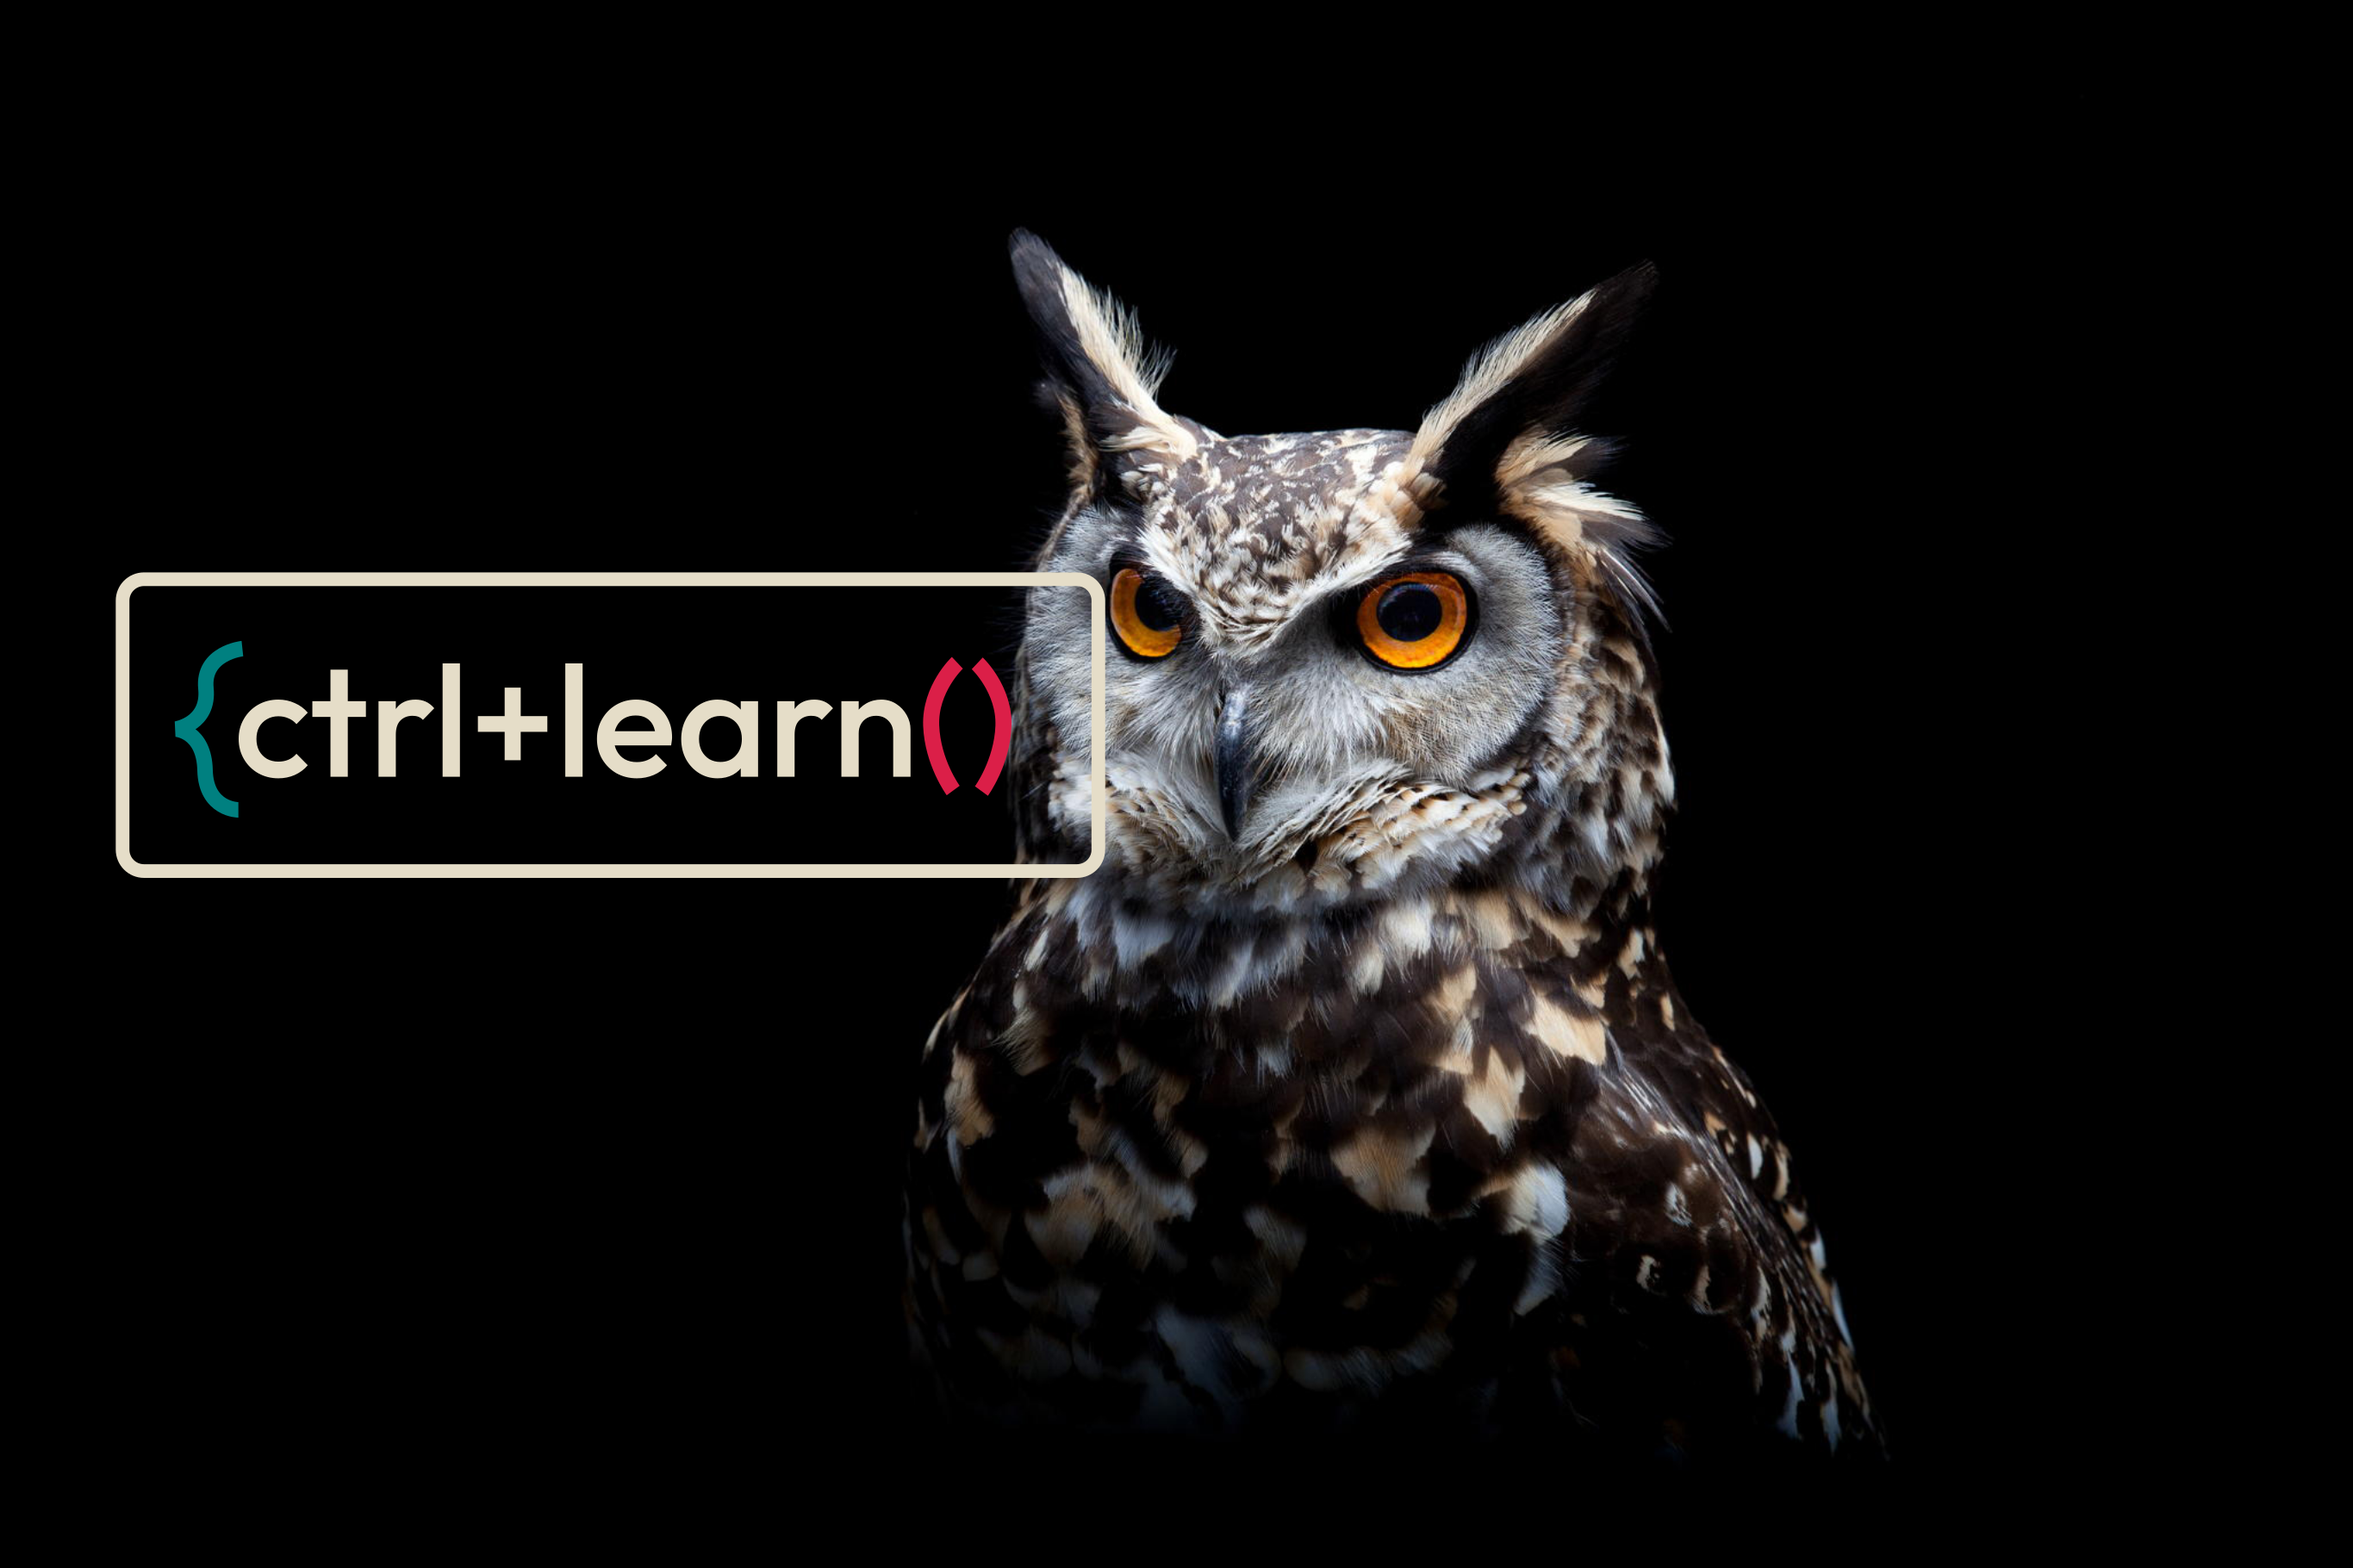
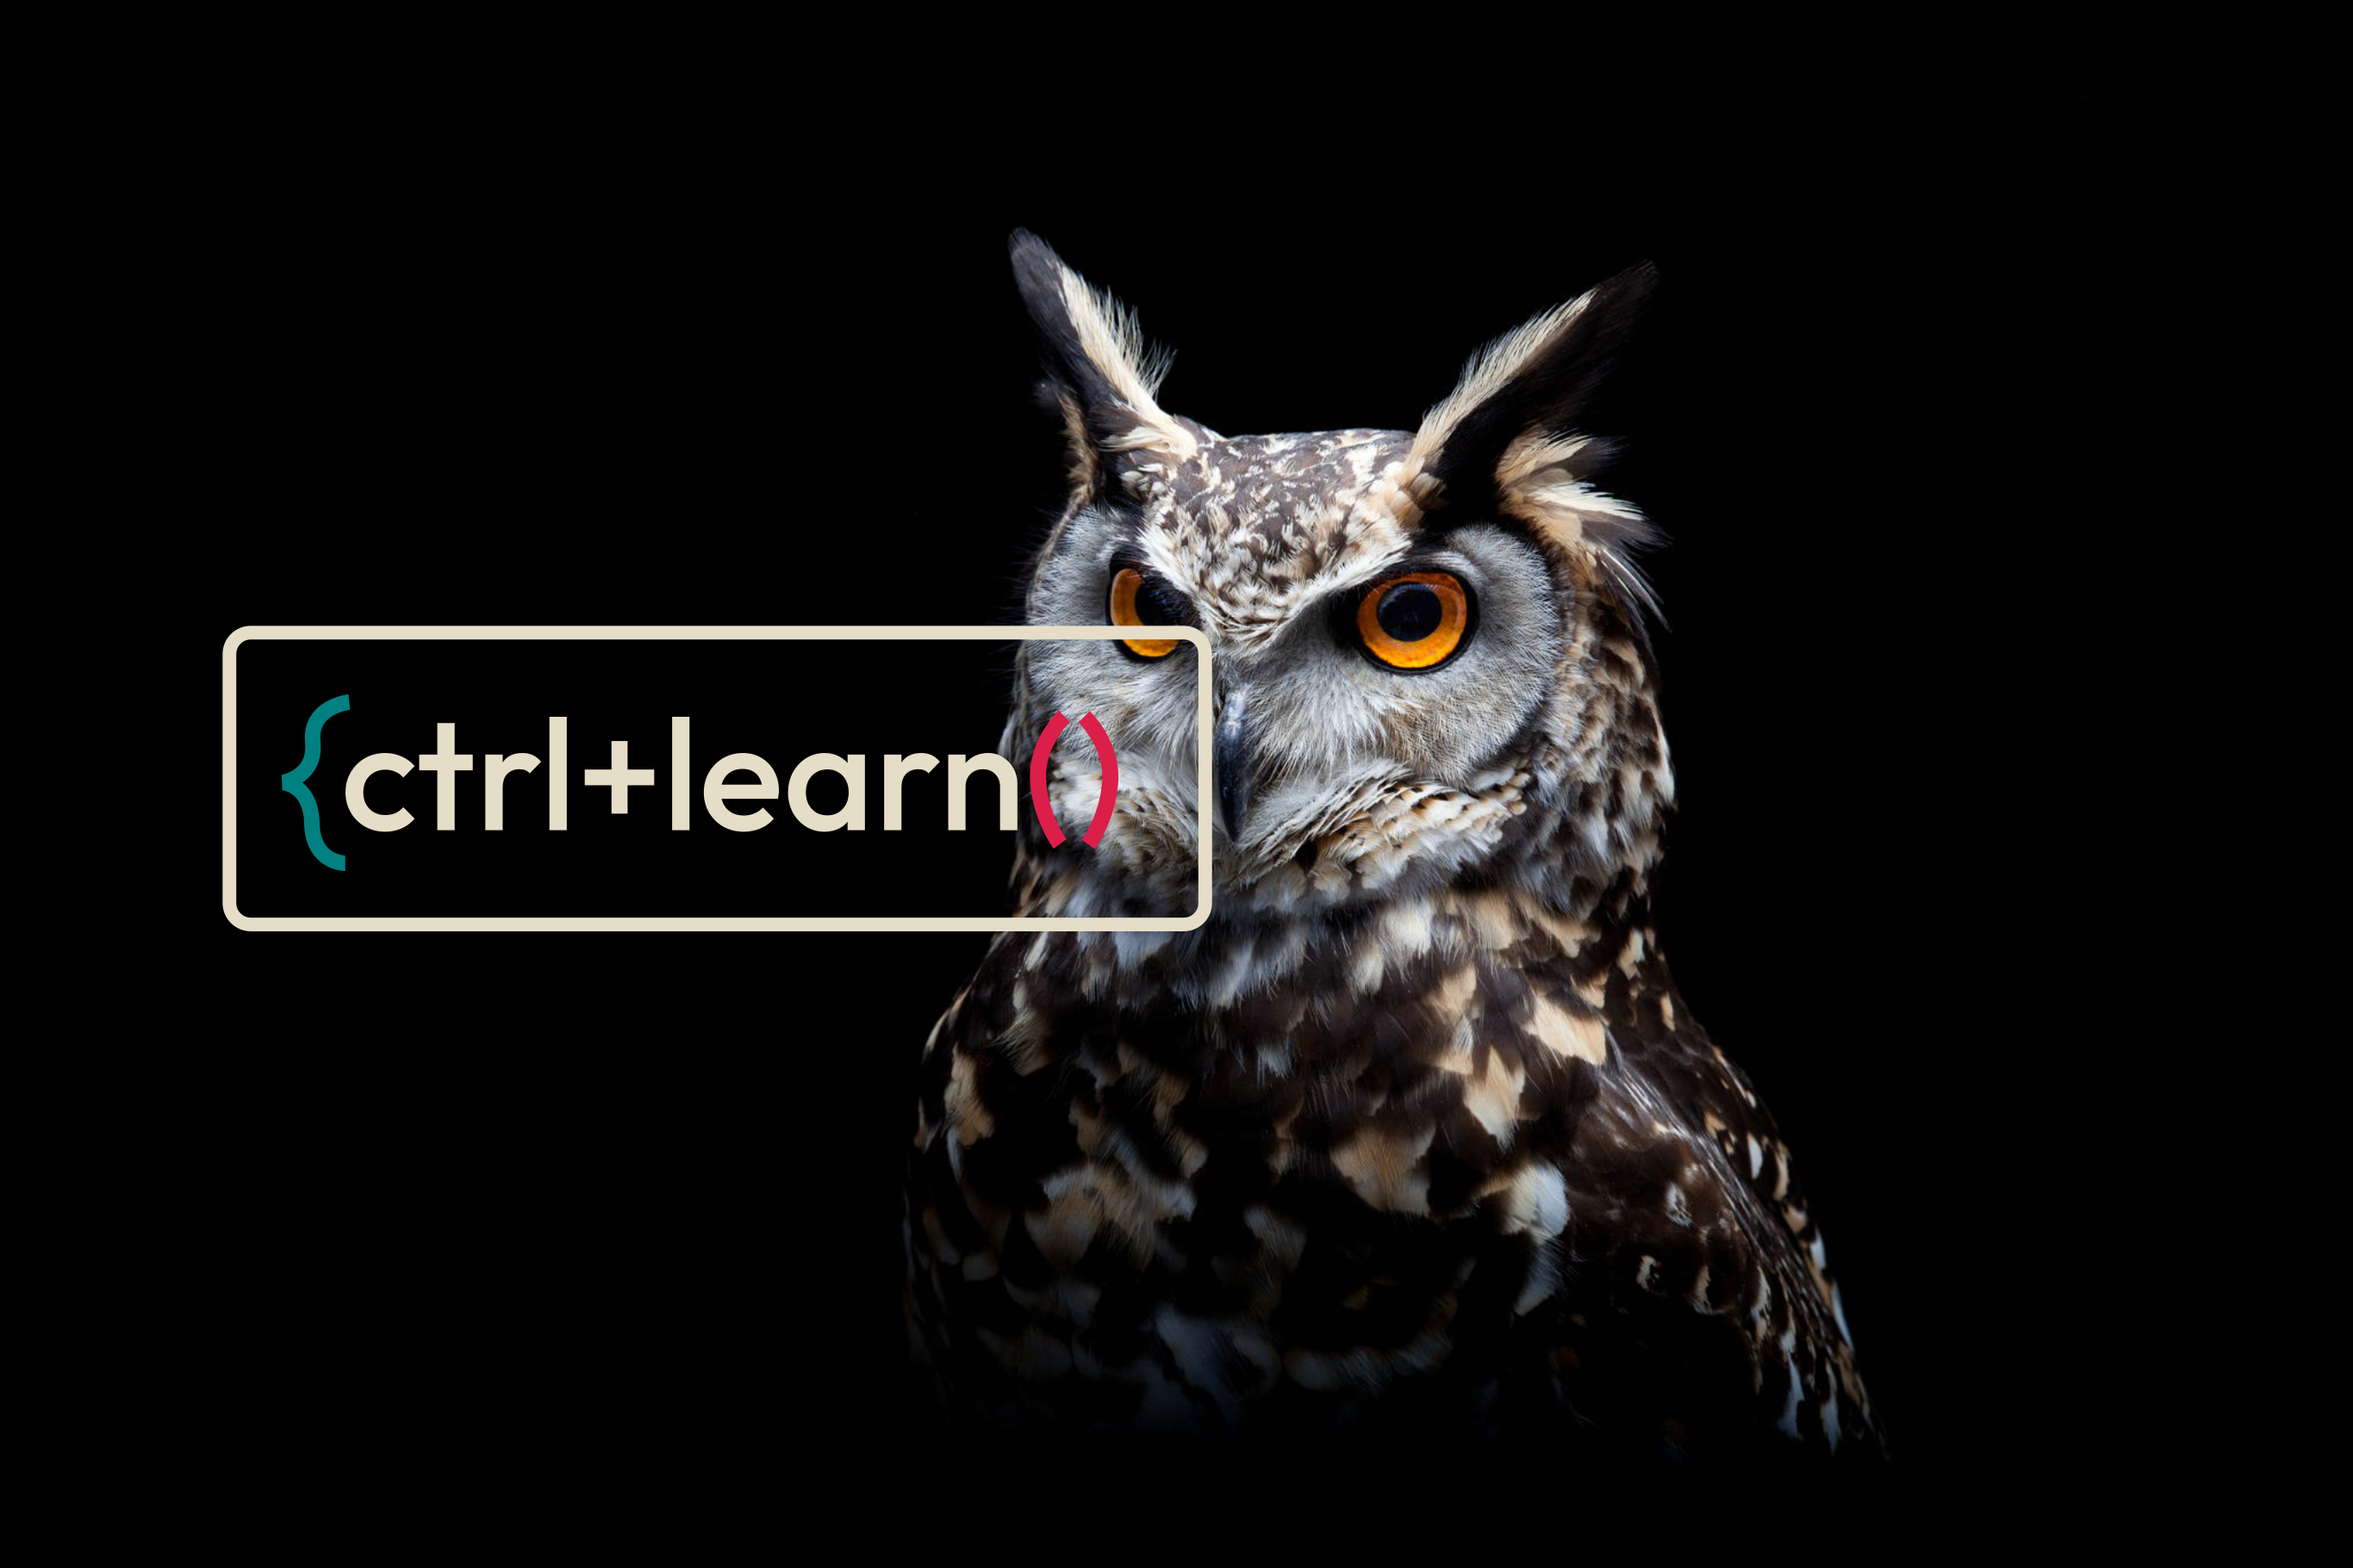
Update branding and homepage layout

Changed region(s): [[0.0311, 0.3385, 0.5291, 0.6154]]

diff --git a/assets/css/main.scss b/assets/css/main.scss
@@ -14,13 +14,13 @@ $brand-colors: (
   "sandy":#e5ddc8ff,
   "teal": #008080ff,
   "blk": #1e2928ff,
-  "rb": #db1f48ff,
+  "rd": #db1f48ff,
 );
 
 $theme-name: "{{ site.theme_color }}";
 $brand-name: "{{ site.brand_color }}";
 $theme-color: map-get($theme-colors, "snowwhite");
-$brand-color: map-get($brand-colors, "orangered");
+$brand-color: map-get($brand-colors, "rd");
 
 @if map-has-key($theme-colors, $theme-name) {
   $theme-color: map-get($theme-colors, $theme-name);

diff --git a/_layouts/home.html b/_layouts/home.html
@@ -1,6 +1,6 @@
 ---
 layout: articles
-heading: "ctrl+learn()"
+heading: " "
 subheading: "from noob to ninja; one command at a time"
 banner: "default"
 ---
